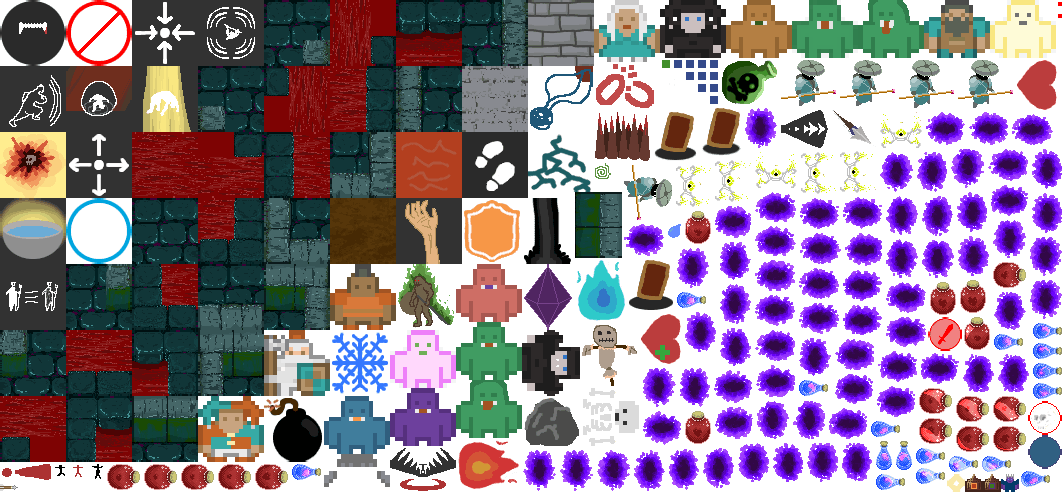
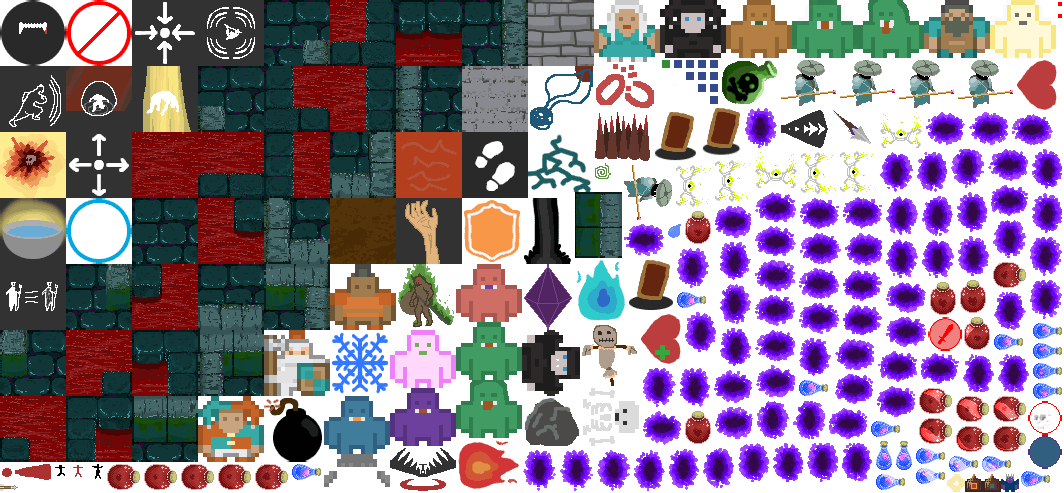
art: Add blood inside corners

diff --git a/src/MapOrganicCave.ts b/src/MapOrganicCave.ts
@@ -523,10 +523,10 @@ export const all_ground = 'tiles/bloodFloor.png';
 const finalTileImages = {
     all_liquid,
     all_ground,
-    liquidInsideCornerNE: 'tiles/bloodInsideCornerNE.png',
-    liquidInsideCornerNW: 'tiles/bloodInsideCornerNW.png',
-    liquidInsideCornerSE: 'tiles/bloodInsideCornerSE.png',
-    liquidInsideCornerSW: 'tiles/bloodInsideCornerSW.png',
+    liquidInsideCornerNE: 'tiles/bloodSideCornerTopRight.png',
+    liquidInsideCornerNW: 'tiles/bloodSideCornerTopLeft.png',
+    liquidInsideCornerSE: 'tiles/bloodSideCornerBtmRight.png',
+    liquidInsideCornerSW: 'tiles/bloodSideCornerBtmLeft.png',
     liquidNGroundS: 'tiles/bloodSideBottom.png',
     liquidCornerNE: 'tiles/bloodSideBottomLeft.png',
     liquidCornerNW: 'tiles/bloodSideBottomRight.png',
